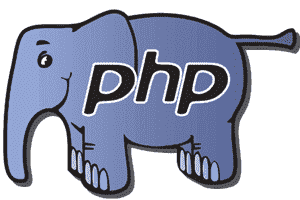
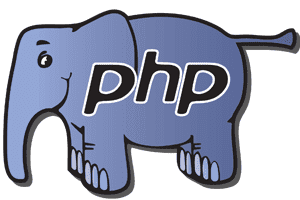
update image sizes for weapons dir

diff --git a/_build2/gulpfile.js b/_build2/gulpfile.js
@@ -60,6 +60,7 @@ gulp.task('build', () => {
     // Compress images with Imagemin 
     // See: https://web.dev/fast/use-imagemin-to-compress-images 
     // See: https://web.dev/fast/use-imagemin-to-compress-images/codelab-imagemin-gulp
+    /** /
     gulp.src('../images/proj/*')
     .pipe(imagemin([
         mozjpeg({quality: 50})
@@ -71,5 +72,6 @@ gulp.task('build', () => {
       pngquant({ quality: [0.5, 0.5] })
     ]))
     .pipe(gulp.dest('../images/weapons/'));
+    /**/
 
 });
